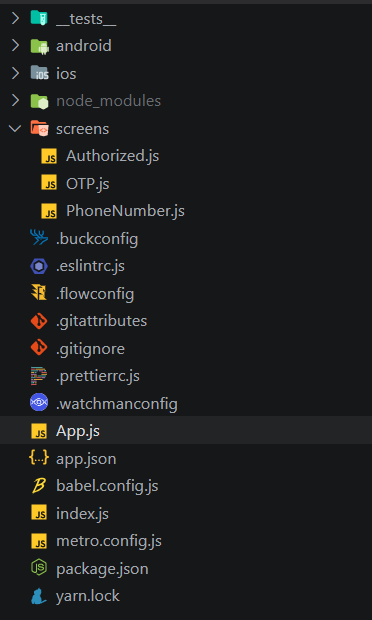
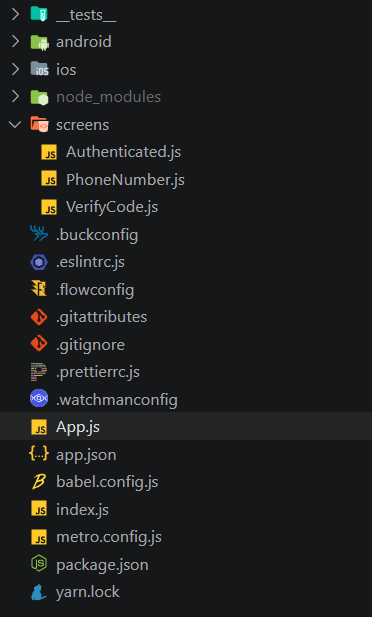
Add Auth State Listener

Changed region(s): [[0.0296, 0.0, 0.5027, 0.9854]]

diff --git a/articles/react-native-firebase-phone-authentication/index.md b/articles/react-native-firebase-phone-authentication/index.md
@@ -48,7 +48,7 @@ I've set up 3 screens in the `screens/` directory:
 
 - _PhoneNumber.js_: Screen to enter the phone number.
 
-- _OTP.js_: Screen to enter the one-time verification code.
+- _VerifyCode.js_: Screen to enter the one-time verification code.
 
 - _Authenticated.js_: Screen that the user can see only if he is logged in.
 
@@ -218,7 +218,7 @@ dependencies {
 
 With this, the firebase authentication module is set up in our application.
 
-### Collecting Phone Number
+### Phone Number
 
 In _App.js_, Let's import the Authentication module from Firebase.
 
@@ -232,7 +232,7 @@ We should use the `signInWithPhoneNumber` method in the auth module. It accepts 
 auth().signInWithPhoneNumber('+91 1234567890');
 ```
 
-The `signInWithPhoneNumber` method returns a `confirmation` method that accepts a one time verification code sent by Firebase to the given phone number. The `confirmation` method also returns a Promise. If the verification code is correct, the promise is resolved. If not, it's rejected.
+The `signInWithPhoneNumber` method returns a object with a `confirmation` method that accepts a one time verification code sent by Firebase. The `confirmation` method is also an async method. If the verification code is correct, the promise is resolved. If not, it's rejected.
 
 Let's create a state using the `useState` hook to hold the `confirmation` method.
 
@@ -248,11 +248,11 @@ Now, let's write a function that accepts a phone number as an argument, and call
 
 ```JSX
 async function signIn(phoneNumber) {
-  try{
+  try {
     const confirmation = await auth().signInWithPhoneNumber(phoneNumber);
     setConfirm(confirmation);
-  } catch(error) {
-    alert(error)
+  } catch (error) {
+    alert(error);
   }
 }
 ```
@@ -265,15 +265,17 @@ return <PhoneNumber onSubmit={signIn} />;
 
 In *PhoneNumber.js*, I've already set up a state that holds the phone number from the input. Let's call the function that we passed and send the phone number as the argument.
 
-You should pass a function to the `onPress` property of the button to call it when the user presses the button.
+To call a function when the user presses a button, you should pass the function to the `onPress` property of the button.
 
 ```JSX
 <Button title="Phone Number Sign In" onPress={() => props.onSubmit(phoneNumber)} />
 ```
 
-### Collecting OTP
+Now, when the user presses the button, the `signInWithPhoneNumber` method from the auth module is called and it will trigger the Firebase servers to send a verification code to the given phone number. It will also return a method that should be used to confirm the verification code.
 
-When the `confirmation` method is available, we should display the *OTP* screen instead of the *PhoneNumber* screen.
+### Verification Code
+
+When the `confirmation` method is available, we should display the *VerifyCode* screen instead of the *PhoneNumber* screen.
 
 ```JSX
 if (confirm) return <OTPScreen />;
@@ -281,46 +283,57 @@ if (confirm) return <OTPScreen />;
 return <PhoneNumber onSubmit={signIn} />;
 ```
 
-If the one time code is verfied, the user will be authenticated into your app. So, let's create a state to track whether the user is authenticated or not. We should set the default value to `false`.
+Now, let's write a function to confirm the verification code.
 
 ```JSX
-const [authenticated, setAutheticated] = useState(false);
-```
-
-Now, let's write a function that accepts a one-time verification code as an argument, and calls the `confirm` method with the code. 
-
-We should use `async/await` to wait for the promise to be resolved. If the promise is resolved, let's set the `authenticated` state to `true` using the `setAutheticated` method.
-
-```JSX
-async function confirmOTP(otp) {
+async function confirmVerificationCode(code) {
   try {
-    await confirm.confirm(otp);
-    setAutheticated(true);
-  } catch {
+    confirm.confirm(code);
+  } catch (error) {
     alert('Invalid code');
   }
 }
 ```
 
-We should pass this function to the `OTP` screen as a prop, and call this function when the user presses the confirm button.
+We should pass this function to the *VerifyCode* screen as a prop, and call this function when the user presses the confirm button.
 
 ```JSX
-if (confirm) return <OTPScreen onSubmit={confirmOTP} />;
+if (confirm) return <OTPScreen onSubmit={confirmVerificationCode} />;
 
 return <PhoneNumber onSubmit={signIn} />;
 ```
 
-In *OTP.js*, I've already set up a state that holds the verification code from the input. Let's call the function that we passed and send the verification code as the argument.
-
-You should pass a function to the `onPress` property of the button to call it when the user presses the button.
+In *VerifyCode.js*, I've already set up a state that holds the verification code from the input. Let's call the function that we passed and send the verification code as the argument.
 
 ```JSX
 <Button title="Confirm OTP" onPress={() => props.onSubmit(otp)} />
 ```
 
-### Display Autheticated Screen
+Now, when the user presses the button, the `confirm` method is called and that will verify the whether is code is correct or not. The user will be authenticated into the code if the verfication code is correct. If not, we will display an error message to the user.
 
-If the user is autheticated, we should display the authenticated screen. We will use the `autheticated` state that we defined in the previous step.
+### Autheticated Screen
+
+If the verification code is correct, the user will be authenticated into your app. So, let's create a state to track whether the user is authenticated or not. We should set the default value to `false`.
+
+```JSX
+const [authenticated, setAutheticated] = useState(false);
+```
+
+We can add a listener to the authentication state of the user. This event will be triggered whenever the authentication state of the user changes inside the application.
+
+You can set an event handler to this listener. This handler will recieve the `user` object. If the `user` object is `null`, it means the user is signed-out, otherwise they are signed-in. 
+
+Let's set the `authenticated` state to `true` if the `user` object is not `null`.
+
+```JSX
+auth().onAuthStateChanged((user) => {
+  if(user) {
+    setAutheticated(true);
+  }
+})
+```
+
+If the user is autheticated, we should display the *Authenticated* screen. 
 
 ```JSX
 if (authenticated) return <Autheticated />;
